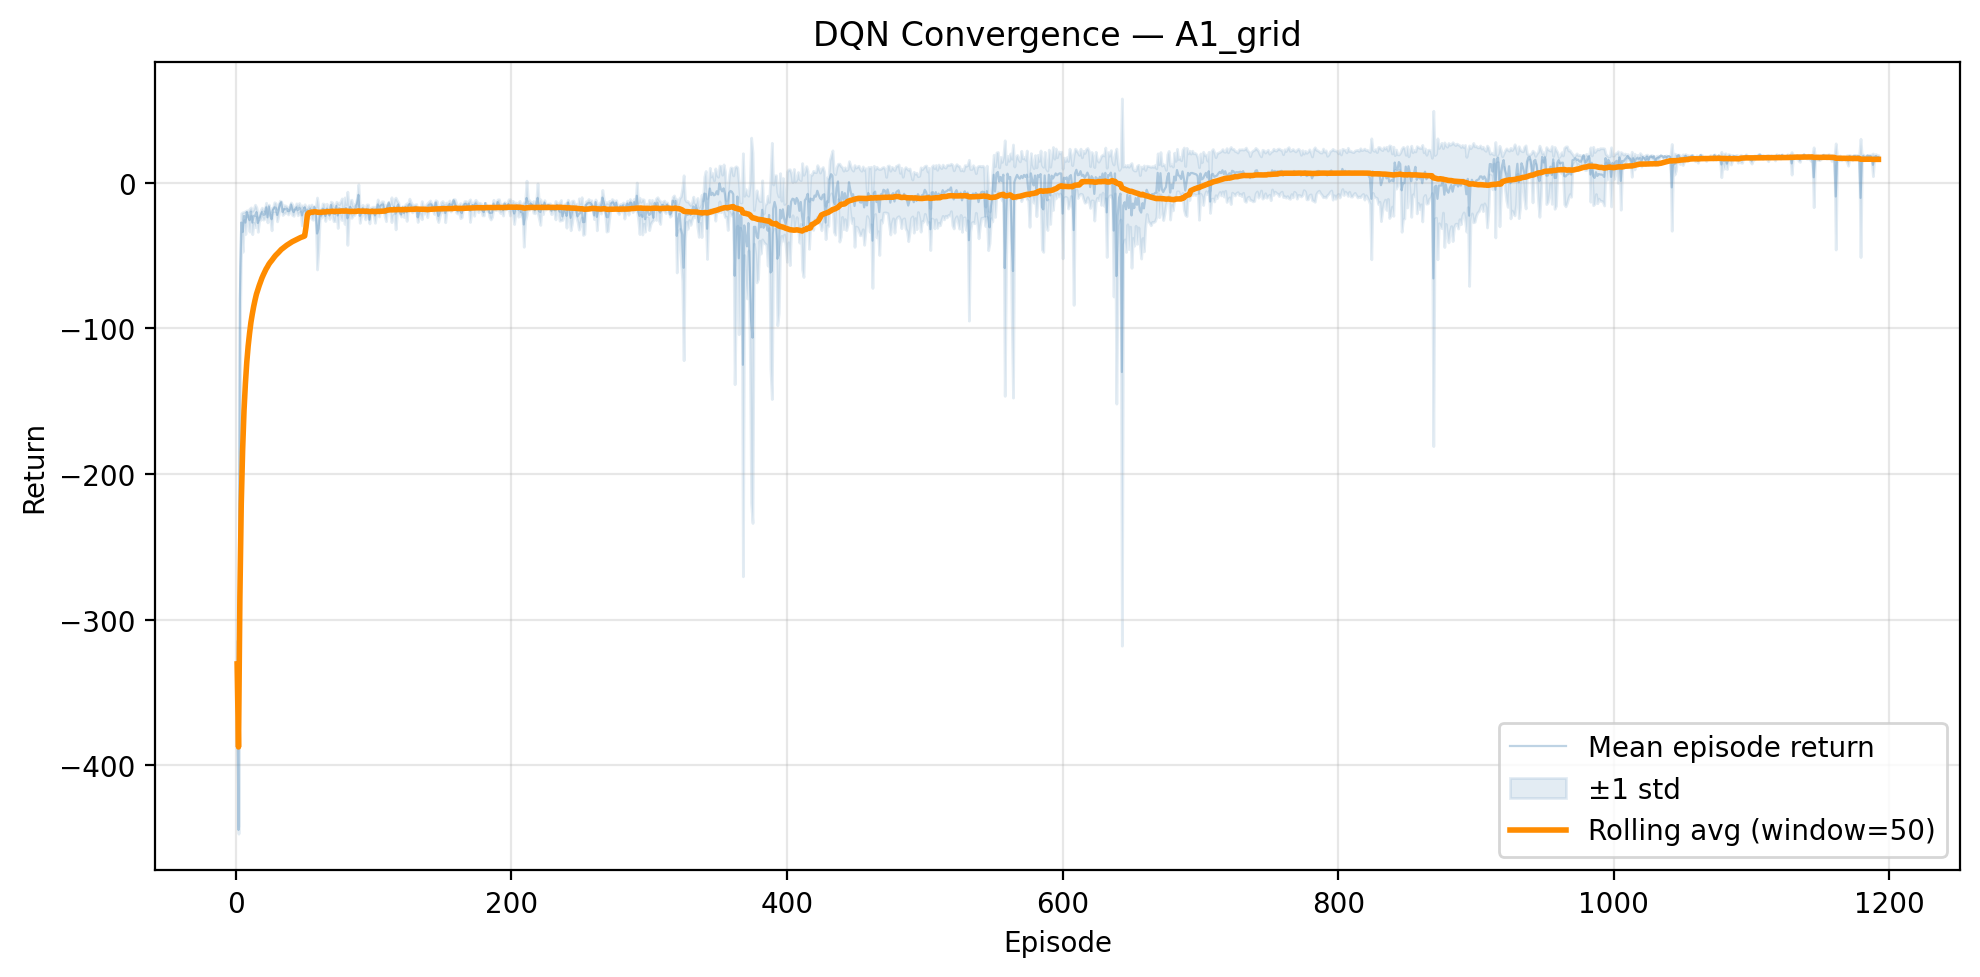
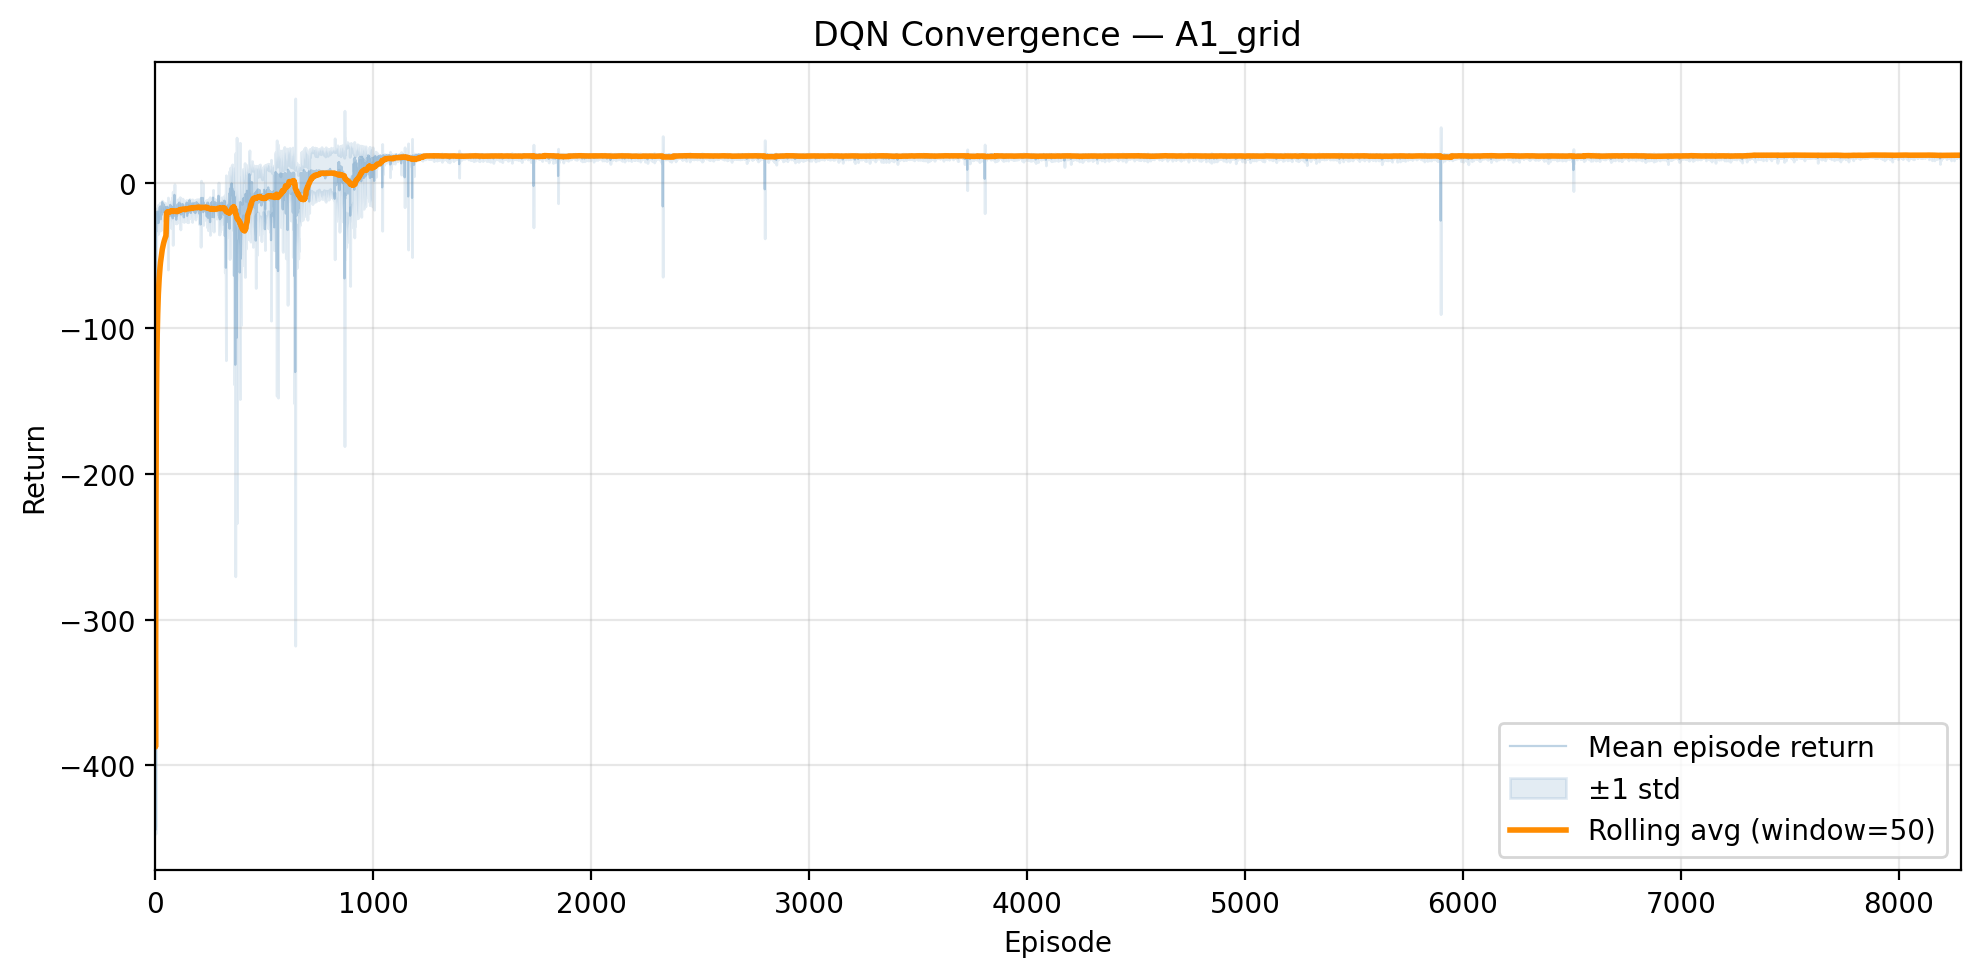
deleted some images that are not being used, made changes on the convergence plot of dqn

diff --git a/ppo_plots.py b/ppo_plots.py
@@ -1,0 +1,89 @@
+import torch
+import numpy as np
+import pandas as pd
+import matplotlib.pyplot as plt
+from pathlib import Path
+
+def rolling_average(values, window):
+    return pd.Series(values).rolling(window, min_periods=1).mean().to_numpy()
+
+def plot_dqn_convergence_like_ppo(grid_name, checkpoint_paths, out_path, window=50, color="steelblue"):
+    """
+    Plots DQN convergence matching the PPO visual style exactly.
+    Aligns seeds by interpolating to the MAX episode length instead of truncating.
+    """
+    all_rewards = []
+    for ckpt_path in checkpoint_paths:
+        if not ckpt_path.exists():
+            print(f"Warning: Checkpoint not found: {ckpt_path}")
+            continue
+        ckpt = torch.load(ckpt_path, map_location="cpu")
+        rewards = ckpt.get("episode_rewards", [])
+        if len(rewards) > 0:
+            all_rewards.append(np.array(rewards))
+
+    if not all_rewards:
+        print(f"No valid episode_rewards found for {grid_name}")
+        return
+
+    # Find the MAX length among seeds so we don't throw away data
+    max_len = max(len(r) for r in all_rewards)
+    target_episodes = np.arange(1, max_len + 1)
+    
+    aligned_rewards = []
+    for r in all_rewards:
+        # If a seed is shorter, smoothly stretch it to the max_len
+        current_episodes = np.arange(1, len(r) + 1)
+        interp_r = np.interp(target_episodes, current_episodes, r)
+        aligned_rewards.append(interp_r)
+
+    aligned = np.array(aligned_rewards)  # shape (n_seeds, max_len)
+
+    mean_curve = aligned.mean(axis=0)
+    std_curve  = aligned.std(axis=0)
+    rolling    = rolling_average(mean_curve, window)
+
+    fig, ax = plt.subplots(figsize=(10, 5))
+
+    # 1. Thin mean line
+    ax.plot(target_episodes, mean_curve, color=color, alpha=0.35,
+            linewidth=0.8, label="Mean episode return")
+
+    # 2. pm1 std shaded band
+    ax.fill_between(target_episodes,
+                    mean_curve - std_curve,
+                    mean_curve + std_curve,
+                    color=color, alpha=0.15, label="±1 std")
+
+    # 3. Rolling average (thick orange line)
+    ax.plot(target_episodes, rolling, color="darkorange", linewidth=2,
+             label=f"Rolling avg (window={window})")
+
+    ax.set_xlabel("Episode")
+    ax.set_ylabel("Return")
+    ax.set_title(f"DQN Convergence — {grid_name}")
+    ax.legend(loc="lower right")
+    ax.grid(True, alpha=0.3)
+
+    # Set x-limits to perfectly frame the data
+    ax.set_xlim(0, max_len)
+
+    plt.tight_layout()
+    plt.savefig(out_path, dpi=200, bbox_inches="tight")
+    plt.close()
+    print(f"Saved plot to {out_path}")
+
+
+# ============================================================
+# GENERATE TWO BASELINE PLOTS
+# ============================================================
+
+OUT_DIR = Path("out/dqn_experiments")
+
+# Plot 1: A1_grid Baseline (Full variant)
+a1_seeds = [OUT_DIR / f"dqn_A1_grid_seed{i}.pt" for i in range(3)]
+plot_dqn_convergence_like_ppo("A1_grid", a1_seeds, "out/Convergence_plot_DQN_A1.png")
+
+# Plot 2: restaurant_delivery_grid Baseline (Full variant)
+restaurant_seeds = [OUT_DIR / f"dqn_restaurant_delivery_grid_seed{i}.pt" for i in range(3)]
+plot_dqn_convergence_like_ppo("restaurant_delivery_grid", restaurant_seeds, "out/Convergence_plot_DQN_Restaurant.png")